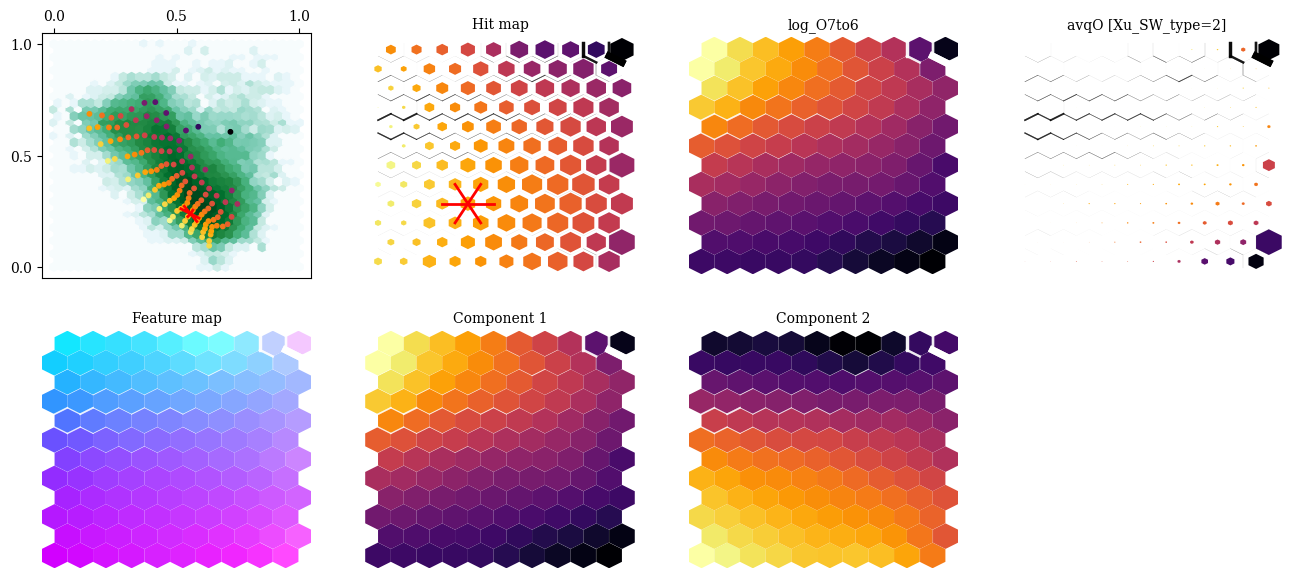
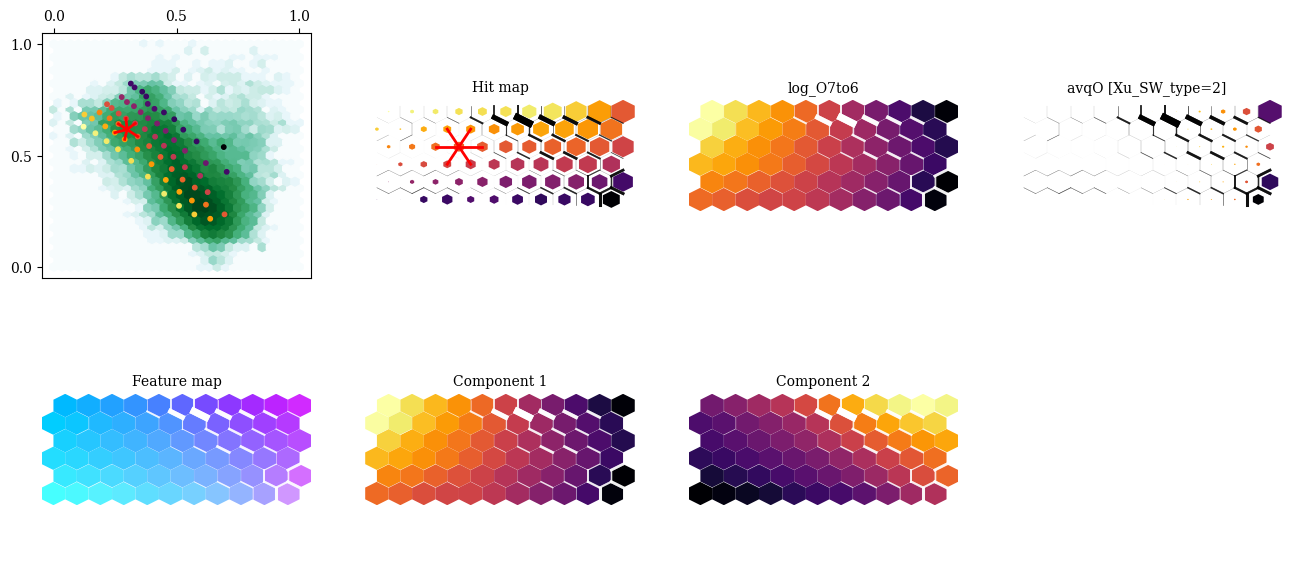
All figures for cases B, X and Z

diff --git a/paper_figures.py b/paper_figures.py
@@ -256,21 +256,22 @@ def fig_classesdatarange(data, ftr, scaler, nclasses, classname, c, fname=None):
         medianprops = dict(linestyle='-', linewidth=1, color='k')
         meanprops = dict(linestyle='--', color='k')
         df = data[data[classname]==cl][ftr]
-        raw = scaler.transform(df.values)
-        k = raw.mean(axis=0)
-        box = ax[cl].boxplot(raw, notch=True, showfliers=False, showmeans=True, meanline=True, patch_artist=True,
-                           boxprops=boxprops,
-                           #capprops=dict(color=c),
-                           #whiskerprops=dict(color=c),
-                           #flierprops=dict(color=c, markeredgecolor=c),
-                           medianprops=medianprops,
-                           meanprops=meanprops,)
-        ax[cl].yaxis.set_major_locator(loc)
-        ax[cl].grid(which='major', axis='y', alpha=0.5)
-        for i, patch in enumerate(box['boxes']):
-            # color = np.append(cpalette[cl], k[i])
-            patch.set_facecolor(cpalette[cl])
-        plt.xticks(range(1,raw.shape[1]+1))
+        if len(df)!=0:
+            raw = scaler.transform(df.values)
+            k = raw.mean(axis=0)
+            box = ax[cl].boxplot(raw, notch=True, showfliers=False, showmeans=True, meanline=True, patch_artist=True,
+                               boxprops=boxprops,
+                               #capprops=dict(color=c),
+                               #whiskerprops=dict(color=c),
+                               #flierprops=dict(color=c, markeredgecolor=c),
+                               medianprops=medianprops,
+                               meanprops=meanprops,)
+            ax[cl].yaxis.set_major_locator(loc)
+            ax[cl].grid(which='major', axis='y', alpha=0.5)
+            for i, patch in enumerate(box['boxes']):
+                # color = np.append(cpalette[cl], k[i])
+                patch.set_facecolor(cpalette[cl])
+            plt.xticks(range(1,raw.shape[1]+1))
     
     if fname is not None:
         plt.savefig(fname, bbox_inches='tight', transparent=True)

diff --git a/swinsom-ace.py b/swinsom-ace.py
@@ -59,11 +59,11 @@ params = {'Roberts' :
                'pca' : True,
                'm' : 12,
                'n' : 12,
-               'maxiter' : 50000,
+               'maxiter' : 10000,
                'batch size' : 32,
                'nepochs' : 30,
-               'sigma' : 5.0,
-               'learning_rate' : 0.9,
+               'sigma' : 7.0,
+               'learning_rate' : 1.0,
                'init_method' : 'rand_points',
                'bottle_neck' : 3,
                'nbr_clusters' : 8,
@@ -94,8 +94,8 @@ params = {'Roberts' :
                'maxiter' : 50000,
                'batch size' : 32,
                'nepochs' : 30,
-               'sigma' : 5.0,
-               'learning_rate' : 1.0,
+               'sigma' : 6.0,
+               'learning_rate' : 2.0,
                'init_method' : 'rand_points',
                'bottle_neck' : 2,
                'nbr_clusters' : 4,
@@ -257,6 +257,7 @@ raw = data[feat[case]].values
 raw = scaler.fit_transform(raw)
 
 pcomp = None
+ae = None
 if acode:
     print('Autoencoder...')
     from autoencoder import autoencoder
